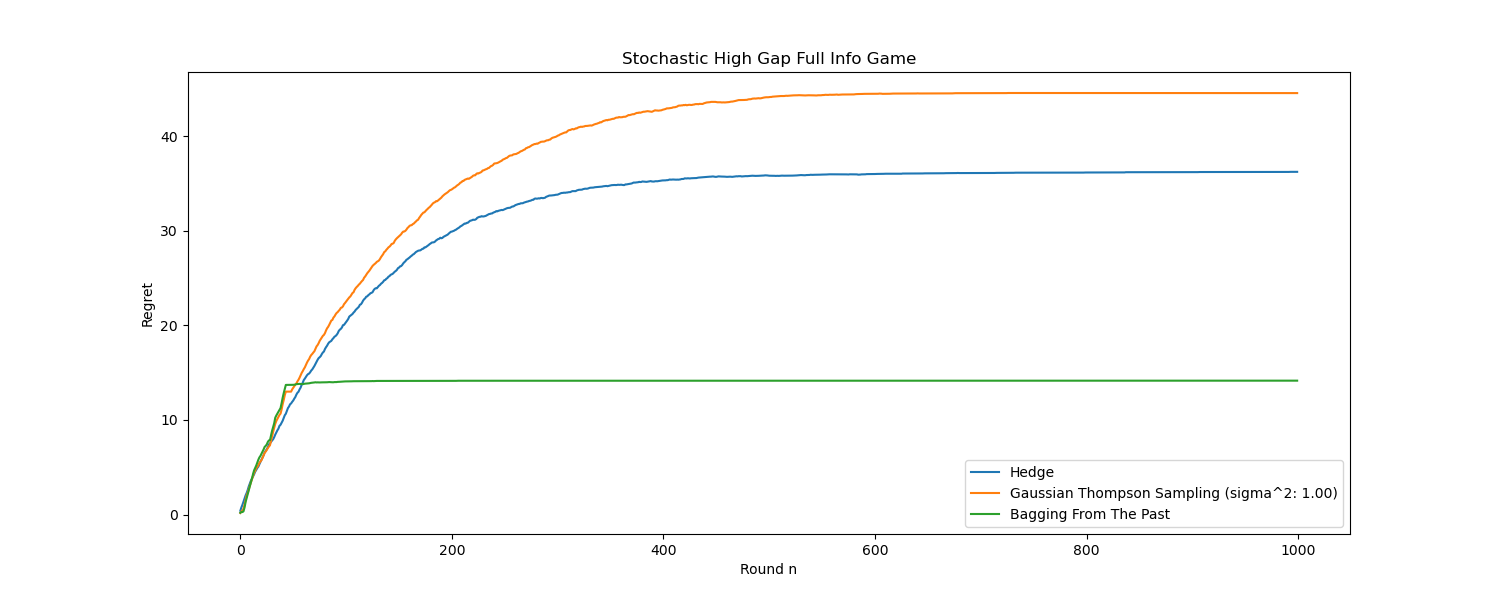
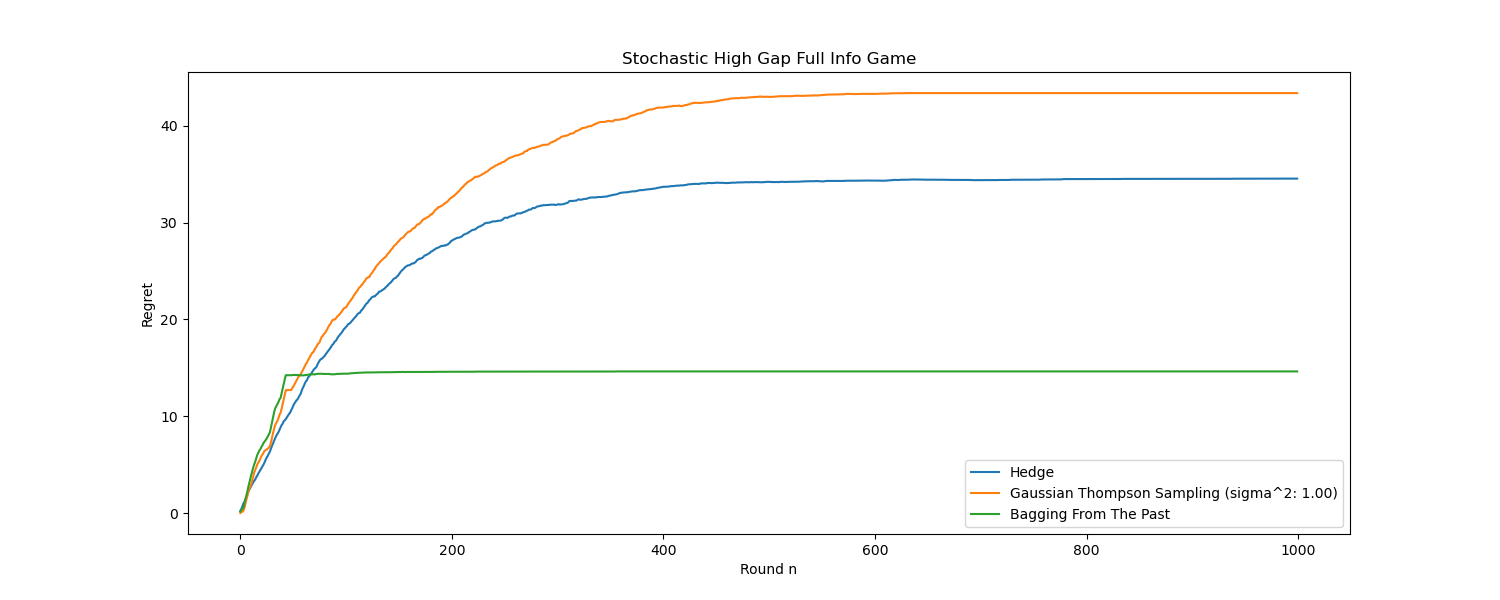
Faster Switch

diff --git a/simulations.py b/simulations.py
@@ -12,6 +12,7 @@ from exp_3_plus_plus import Exp3_plus_plus
 from tsallis_inf import Tsallis_Inf
 from bagging_from_the_past import BaggingFromThePast_FI, BaggingFromThePast_PI, BaggingFromThePast_PI_v0, BaggingFromThePast_PI_v1
 from dropout import DropOut_FI, DropOut_PI
+from stochastically_constrained_fast_switch import Stochastically_Constrained_Fast_Switch
 from hedge import Hedge
 from gaussian_thompson_sampling import Gaussian_Thompson_FI, Gaussian_Thompson_PI
 import math
@@ -19,6 +20,7 @@ import numpy as np
 
 high_gap_stochastic_data_job = High_Gap_Stochastic()
 stochastically_constrained_data_job = Stochastically_Constrained()
+stochastically_constrained_fast_switch_data_job = Stochastically_Constrained_Fast_Switch()
 
 hedge = Hedge(stochastically_constrained_data_job)
 bagging_from_the_past_fi = BaggingFromThePast_FI(stochastically_constrained_data_job)
@@ -34,6 +36,14 @@ gaussian_thompson_sampling = Gaussian_Thompson_FI(high_gap_stochastic_data_job, 
 full_info_ground = Full_Info_Play_Ground(high_gap_stochastic_data_job, 
                                          [hedge, gaussian_thompson_sampling, bagging_from_the_past_fi], 
                                          plot_label="Stochastic High Gap Full Info Game")
+full_info_ground.plot_results()
+
+hedge = Hedge(stochastically_constrained_fast_switch_data_job)
+bagging_from_the_past_fi = BaggingFromThePast_FI(stochastically_constrained_fast_switch_data_job)
+gaussian_thompson_sampling = Gaussian_Thompson_FI(stochastically_constrained_fast_switch_data_job, 1)
+full_info_ground = Full_Info_Play_Ground(stochastically_constrained_fast_switch_data_job, 
+                                         [hedge, gaussian_thompson_sampling, bagging_from_the_past_fi], 
+                                         plot_label="Stochastically Constrained Faster Switch Full Info Game")
 full_info_ground.plot_results()
 
 """ bagging_from_the_past = BaggingFromThePast_PI(high_gap_stochastic_data_job)

diff --git a/stochastically_constrained_fast_switch.py b/stochastically_constrained_fast_switch.py
@@ -18,7 +18,7 @@ class Stochastically_Constrained_Fast_Switch(Data_Generating_Mechanism):
             rewards[i] = random.binomial(n = 1, p = self.get_mu_arm_i(i))
 
         # switch up rewards if t is in [2^(i - 1), 2^i] if i is odd
-        if (t%4 == 1):
+        if (t%3 == 1):
             temp = rewards[self.optimal_arm_index]
             rewards[self.optimal_arm_index] = rewards[self.worst_arm_index]
             rewards[self.worst_arm_index] = temp
